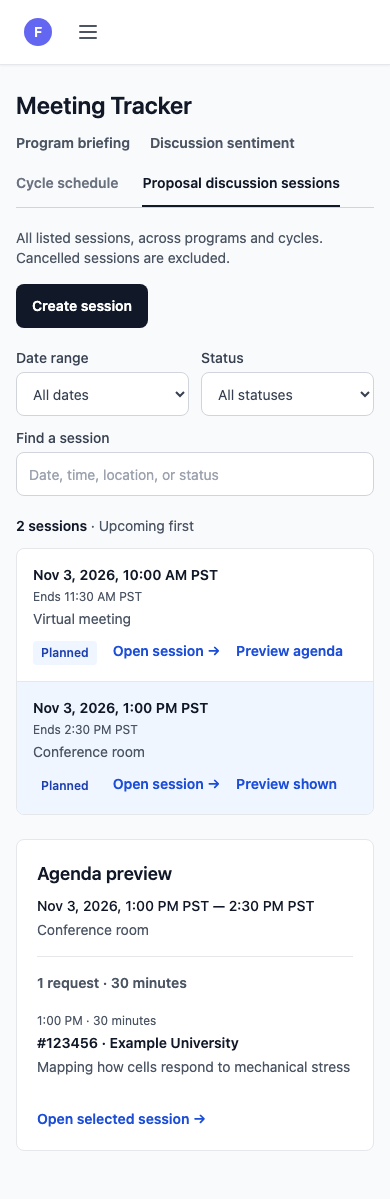
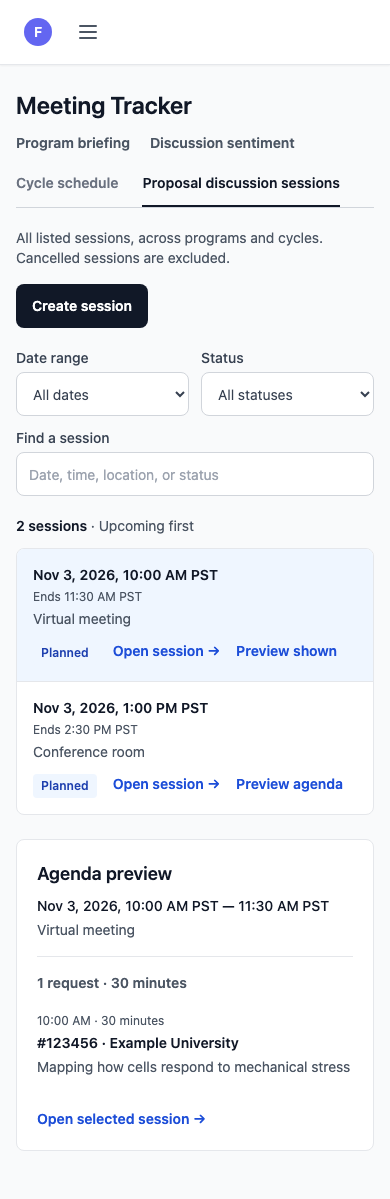
Guard empty session previews and record completed Opus UI review

diff --git a/tests/unit/meeting-tracker-materials-filters.test.js b/tests/unit/meeting-tracker-materials-filters.test.js
@@ -11,56 +11,58 @@ const response=(proposals)=>({ok:true,status:200,json:async()=>({proposals,progr
 let rows;
 beforeEach(()=>{rows=fixtures();mockRouter.query={programId:'p1',cycleCode:'D26'};mockRouter.replace.mockClear();global.fetch=jest.fn(async()=>response(rows));});
 afterEach(()=>jest.restoreAllMocks());
-const filters=()=>screen.getByRole('navigation',{name:'Materials status filters'});
-const filter=(name)=>within(filters()).getByRole('button',{name});
+const filters=()=>screen.getByRole('combobox',{name:'Materials status'});
+const filter=(name)=>within(filters()).getByRole('option',{name:name.startsWith('All (')?name.replace('All (','Materials: All statuses ('):name});
+const select=(name)=>fireEvent.change(filters(),{target:{value:filter(name).value}});
 const titles=()=>screen.getAllByRole('heading',{level:2}).map(x=>x.textContent);
 
 test('25 rows have exclusive stable counts; every normal filter retains source order without refetching',async()=>{
- render(<MeetingTrackerList/>);await screen.findByRole('button',{name:'All (25)'});
+ render(<MeetingTrackerList/>);await screen.findByRole('option',{name:'Materials: All statuses (25)'});
  const dashboardUrl=String(global.fetch.mock.calls.find(([url])=>String(url).includes('/api/meeting-tracker/dashboard'))[0]);
  expect(new URL(dashboardUrl,'https://example.org').searchParams.get('projection')).toBe('schedule');
  const calls=global.fetch.mock.calls.length;
  for(const [offset,label] of ['Not requested','Waiting','Late','Check files','Ready'].entries()){
-  fireEvent.click(filter(`${label} (5)`));
+  select(`${label} (5)`);
   expect(titles()).toEqual(Array.from({length:5},(_,i)=>`#${offset+1+i*5}`));
-  expect(filter(`${label} (5)`)).toHaveAttribute('aria-pressed','true');
-  expect(within(filters()).getAllByRole('button').map(b=>b.textContent)).toEqual(['All (25)','Not requested (5)','Waiting (5)','Saving files (0)','Needs attention (0)','Late (5)','Check files (5)','Ready (5)']);
+  expect(filters()).toHaveValue(filter(`${label} (5)`).value);
+  expect(within(filters()).getAllByRole('option').map(b=>b.textContent)).toEqual(['Materials: All statuses (25)','Not requested (5)','Waiting (5)','Saving files (0)','Needs attention (0)','Late (5)','Check files (5)','Ready (5)']);
  }
  expect(global.fetch).toHaveBeenCalledTimes(calls);
- fireEvent.click(filter('All (25)'));expect(titles()).toHaveLength(25);
+ select('All (25)');expect(titles()).toHaveLength(25);
 });
 
-test('diagnostic buckets count every row and zero-count filters show an explicit empty result',async()=>{
+test('diagnostic buckets count every row and zero-count filters are disabled and search has an explicit empty result',async()=>{
  rows=[{...fixtures()[0],siteVisit:null},{...fixtures()[1],materialsAvailability:'unavailable'},{...fixtures()[2],materials:summary('closed')}];
- render(<MeetingTrackerList/>);await screen.findByRole('button',{name:'All (3)'});
+ render(<MeetingTrackerList/>);await screen.findByRole('option',{name:'Materials: All statuses (3)'});
  for(const label of ['No visit','Status unavailable','Closed'])expect(filter(`${label} (1)`)).toBeInTheDocument();
- fireEvent.click(filter('Ready (0)'));expect(screen.getByText('No requests match this materials status')).toBeInTheDocument();
+ expect(filter('Ready (0)')).toBeDisabled();
+ fireEvent.change(screen.getByRole('searchbox',{name:'Find a request'}),{target:{value:'no matching request'}});expect(screen.getByText('No requests match these filters')).toBeInTheDocument();
  expect(screen.queryByRole('link',{name:'Edit visit'})).not.toBeInTheDocument();
  fireEvent.click(screen.getByRole('button',{name:'Show all requests'}));expect(titles()).toHaveLength(3);
 });
 
 test.each([{scope:'all'},{cycleCode:'J27'},{programId:'p2'}])('URL scope change resets filter and uses new scoped results: %p',async(change)=>{
- const view=render(<MeetingTrackerList/>);await screen.findByRole('button',{name:'All (25)'});
- fireEvent.click(filter('Late (5)'));
+ const view=render(<MeetingTrackerList/>);await screen.findByRole('option',{name:'Materials: All statuses (25)'});
+ select('Late (5)');
  rows=[{...fixtures()[4],requestNumber:'900',title:'New scope'}];
  mockRouter.query={...mockRouter.query,...change};view.rerender(<MeetingTrackerList/>);
- await screen.findByRole('button',{name:'All (1)'});
- expect(filter('All (1)')).toHaveAttribute('aria-pressed','true');expect(titles()).toEqual(['#900']);
+ await screen.findByRole('option',{name:'Materials: All statuses (1)'});
+ expect(filters()).toHaveValue('all');expect(titles()).toEqual(['#900']);
 });
 
 test('scope-control click immediately hides old actions even before router navigation completes',async()=>{
- render(<MeetingTrackerList/>);await screen.findByRole('button',{name:'All (25)'});
+ render(<MeetingTrackerList/>);await screen.findByRole('option',{name:'Materials: All statuses (25)'});
  fireEvent.click(screen.getByRole('button',{name:'All program directors'}));
  expect(mockRouter.replace).toHaveBeenCalled();
- expect(screen.queryByRole('navigation',{name:'Materials status filters'})).not.toBeInTheDocument();
+ expect(screen.queryByRole('combobox',{name:'Materials status'})).not.toBeInTheDocument();
  expect(screen.queryByRole('heading',{name:'#1',exact:true})).not.toBeInTheDocument();
 });
 
 test('new-scope load failure never displays previous-scope requests or counts',async()=>{
- const view=render(<MeetingTrackerList/>);await screen.findByRole('button',{name:'All (25)'});
+ const view=render(<MeetingTrackerList/>);await screen.findByRole('option',{name:'Materials: All statuses (25)'});
  global.fetch=jest.fn(async()=>({ok:false,status:503,json:async()=>({error:'Scoped load failed'})}));
  mockRouter.query={programId:'p2',cycleCode:'D26'};view.rerender(<MeetingTrackerList/>);
- await screen.findByRole('alert');expect(screen.queryByRole('navigation',{name:'Materials status filters'})).not.toBeInTheDocument();
+ await screen.findByRole('alert');expect(screen.queryByRole('combobox',{name:'Materials status'})).not.toBeInTheDocument();
  expect(screen.queryByRole('heading',{name:'#1',exact:true})).not.toBeInTheDocument();
 });
 
@@ -69,17 +71,17 @@ test('a late response from the old scope cannot overwrite the new scope',async()
  global.fetch=jest.fn(url=>String(url).includes('programId=p1')?old:Promise.resolve(response([{...fixtures()[0],requestNumber:'900'}])));
  const view=render(<MeetingTrackerList/>);await waitFor(()=>expect(global.fetch).toHaveBeenCalled());
  mockRouter.query={programId:'p2',cycleCode:'D26'};view.rerender(<MeetingTrackerList/>);
- await screen.findByRole('button',{name:'All (1)'});
+ await screen.findByRole('option',{name:'Materials: All statuses (1)'});
  await act(async()=>{resolveOld(response(fixtures()));});
  expect(titles()).toEqual(['#900']);expect(filter('All (1)')).toBeInTheDocument();
 });
 
 test('missing availability renders unknown even with a valid summary or known-looking null', async()=>{
  rows=[{...fixtures()[0],materialsAvailability:undefined},{...fixtures()[1],materialsAvailability:undefined}];
- render(<MeetingTrackerList/>);await screen.findByRole('button',{name:'All (2)'});
+ render(<MeetingTrackerList/>);await screen.findByRole('option',{name:'Materials: All statuses (2)'});
  expect(filter('Status unavailable (2)')).toBeInTheDocument();
  expect(filter('Not requested (0)')).toBeInTheDocument();
- expect(screen.getAllByText('Reload this page to refresh materials.')).toHaveLength(2);
+ expect(screen.getAllByText('Status unavailable',{exact:true})).toHaveLength(2);
 });
 
 test('cycle discovery keeps loading until navigation completes, without a false empty state',async()=>{
@@ -96,7 +98,7 @@ test('cycle discovery keeps loading until navigation completes, without a false 
 });
 
 test.each(['reject','cancel'])('scope navigation %s offers recovery instead of remaining stuck loading',async(kind)=>{
- render(<MeetingTrackerList/>);await screen.findByRole('button',{name:'All (25)'});
+ render(<MeetingTrackerList/>);await screen.findByRole('option',{name:'Materials: All statuses (25)'});
  if(kind==='reject')mockRouter.replace.mockRejectedValueOnce(new Error('navigation failed'));
  else mockRouter.replace.mockResolvedValueOnce(false);
  fireEvent.click(screen.getByRole('button',{name:'All program directors'}));
@@ -112,8 +114,8 @@ test('processing and attention filters include active work after collection clos
   { ...fixtures()[1], materials: summary('closed', { attentionCount:1 }) },
   { ...fixtures()[2], materials: summary('closed') },
  ];
- render(<MeetingTrackerList/>); await screen.findByRole('button', {name:'All (3)'});
- fireEvent.click(filter('Saving files (1)')); expect(titles()).toEqual(['#1']);
- fireEvent.click(filter('Needs attention (1)')); expect(titles()).toEqual(['#2']);
- fireEvent.click(filter('Closed (1)')); expect(titles()).toEqual(['#3']);
+ render(<MeetingTrackerList/>); await screen.findByRole('option', {name:'Materials: All statuses (3)'});
+ select('Saving files (1)'); expect(titles()).toEqual(['#1']);
+ select('Needs attention (1)'); expect(titles()).toEqual(['#2']);
+ select('Closed (1)'); expect(titles()).toEqual(['#3']);
 });

diff --git a/tests/unit/meeting-tracker-list-t5-matrix.test.js b/tests/unit/meeting-tracker-list-t5-matrix.test.js
@@ -42,7 +42,8 @@ test('dashboard non-2xx {error} surfaces its own fallback text verbatim', async 
   expect(await screen.findByRole('alert')).toHaveTextContent('boom');
 });
 
-test('sessions non-2xx falls to the fixed fallback text, never silent', async () => {
+test('sessions non-2xx is visible in the separate sessions view', async () => {
+  routerQuery = { ...routerQuery, view: 'sessions' };
   global.fetch = jest.fn((url) => (
     String(url).includes('/sessions')
       ? Promise.resolve({ ok: false, status: 500, json: async () => ({}) })
@@ -52,7 +53,7 @@ test('sessions non-2xx falls to the fixed fallback text, never silent', async ()
       })
   ));
   render(<MeetingTrackerList />);
-  expect(await screen.findByRole('alert')).toHaveTextContent('The meeting sessions could not be loaded. Please try again.');
+  expect(await screen.findByRole('alert')).toHaveTextContent('Sessions could not be loaded.');
 });
 
 test('network rejection is never silent', async () => {
@@ -69,4 +70,14 @@ test('dashboard axis (e): non-2xx unparseable body falls to the fixed fallback t
   ));
   render(<MeetingTrackerList />);
   expect(await screen.findByRole('alert')).toHaveTextContent('The meeting schedule could not be loaded. Please try again.');
+});
+
+
+test('a failed global session read does not hide the cycle schedule', async () => {
+  global.fetch = jest.fn((url) => String(url).includes('/sessions')
+    ? Promise.reject(new Error('session endpoint offline'))
+    : Promise.resolve({ ok: true, json: async () => ({ proposals: [{ requestId: 'request-1', requestNumber: '123456', title: 'Visible request' }], programs: [], cycles: [{code:'D26'}] }) }));
+  render(<MeetingTrackerList />);
+  expect(await screen.findByRole('heading', {name:'#123456'})).toBeInTheDocument();
+  expect(screen.queryByRole('alert')).not.toBeInTheDocument();
 });

diff --git a/tests/unit/meeting-sessions-view.test.js b/tests/unit/meeting-sessions-view.test.js
@@ -39,3 +39,13 @@ test('malformed success is an agenda error, and retry recovers without a write',
   expect(await screen.findByText('Recovered agenda')).toBeInTheDocument();
   expect(global.fetch.mock.calls.every(([, options]) => !options.method || options.method === 'GET')).toBe(true);
 });
+
+
+test('empty, loading and failed lists never treat an absent selection as loaded detail', () => {
+  const view = render(<Sessions sessions={[]} loading />);
+  expect(screen.getByRole('status')).toHaveTextContent('Loading sessions');
+  view.rerender(<Sessions sessions={[]} />);
+  expect(screen.getByText(/No sessions have been scheduled/)).toBeInTheDocument();
+  view.rerender(<Sessions sessions={[]} error="offline" onRetry={() => {}} />);
+  expect(screen.getByRole('alert')).toHaveTextContent('Sessions could not be loaded');
+});

diff --git a/shared/components/meeting-tracker/MeetingSessionsView.js b/shared/components/meeting-tracker/MeetingSessionsView.js
@@ -56,7 +56,7 @@ export default function MeetingSessionsView({ sessions, loading, error, onRetry,
     if (programId) query.set('programId', programId);
     return `/meeting-tracker/sessions/${sessionId}${query.size ? `?${query}` : ''}`;
   };
-  const ready = detail?.forId === id;
+  const ready = Boolean(id && detail?.forId === id);
   const slots = ready ? detail.slots : [];
   const previewSession = ready ? detail.session : selected;
   const preview = (sessionId) => {

diff --git a/docs/audits/MEETING_UI_COMPLETION_2026-10-24.md b/docs/audits/MEETING_UI_COMPLETION_2026-10-24.md
@@ -1,6 +1,6 @@
 # Meeting Tracker UI completion — 2026-10-24
 
-Status: implemented and verified locally against the saved mockups; final Opus confirmation and release pending. This receipt does not claim deployment.
+Status: UI implementation, actual-page visual verification and final Opus review passed; candidate release checks/promotion pending. This receipt does not claim deployment.
 
 The earlier functional release did not complete the approved landing-page layout. The saved October 20 mockups in `docs/plans/review/meeting-tracker-2026-10-20/` remain the design authority. This work completes their cycle/session navigation and focused task workspace using existing application data and controls.
 
@@ -42,9 +42,9 @@ The final round captured **16 screens at 1440px and 390px**, including all four 
 
 [VERIFIED via direct image inspection] The candidate follows the approved composition rather than reproducing synthetic queue counts or changing existing operational controls. Landing rows are approximately 89px with real disclosure/count content; the mockup is approximately 87px. This deliberately remains above DESIGN.md's approximate 64px density preference to keep the actual information readable. The shared production shell is retained. Session search truthfully supports date/time/location/status; an exploratory agenda-text search is not advertised.
 
-[VERIFIED via browser interactions and 8 Jest suites / 283 tests] Request search, status filtering, URL-addressable views, preview selection/focus, stale response rejection, malformed-success recovery, same-day identity, mounted task state and invitation draft preservation pass. Existing visit/form, preparation and recording/video tests remain green. Lint has zero errors and five pre-existing hook warnings in the retained editors; types and production-mode webpack build pass. The required Impeccable detector returned `[]`. Source scaffolding gate/self-test, doc-currency gate/self-test, docs catalog and agent symlink invariants pass.
+[VERIFIED via browser interactions and 10 Jest suites / 302 tests] Request search, status filtering, URL-addressable views, preview selection/focus, stale response rejection, malformed-success recovery, same-day identity, mounted task state and invitation draft preservation pass. Existing visit/form, preparation and recording/video tests remain green. Lint has zero errors and five pre-existing hook warnings in the retained editors; types and production-mode webpack build pass. The required Impeccable detector returned `[]`. Source scaffolding gate/self-test, doc-currency gate/self-test, docs catalog and agent symlink invariants pass.
 
-Proof limits: this is a UI-only Mode A rehearsal, not a new hosted media/mail or production business-write rehearsal. The canonical deployed bundler remains Turbopack; the local build uses the existing webpack fallback because dependencies are symlinked across checkout roots. A local fixture-auth full reload reached the sign-in UI despite its mocked client session; the final UI pass verifies URL updates and selection without claiming a fresh sign-in/reload acceptance result.
+Proof limits: this is a UI-only Mode A rehearsal, not a new hosted media/mail or production business-write rehearsal. The canonical deployed bundler remains Turbopack; the local build uses the existing webpack fallback because dependencies are symlinked across checkout roots. The broader T5/error-state suites exposed an empty-selection startup crash after the first visual review. `Boolean(id && detail?.forId === id)` now prevents absent IDs from making a null detail appear ready. The final real-page pass includes direct Sessions reload with the actual authentication guard and URL query intact; it passes. This is local fixture authentication, not a new Microsoft SSO acceptance test.
 
 ## Claude Opus review and adjudication
 
@@ -61,7 +61,11 @@ Proof limits: this is a UI-only Mode A rehearsal, not a new hosted media/mail or
 
 The suggestion that materials filters were not reset on program/cycle change was refuted by the existing `setMaterialsFilter('all')` calls. The session date identity and URL-addressable view suggestions were implemented. Synthetic task queue counts were not invented.
 
-Final Opus confirmation is pending; do not call the task complete until its findings are adjudicated.
+[VERIFIED via final ordinary OAuth Opus review] Final verdict: **pass — no blocking defects in this bounded UI completion**. Opus compared the final real Next-page screenshots to the approved references and checked the source fixes, response fences, direct view links and preserved scope. Optional styling/legacy-component suggestions are not new scope.
+
+The subsequent broader contract test caught the startup crash described above, missed by both visual reviews. A targeted Opus follow-up explicitly verified the guard and empty/loading/error regressions: **fix correct; no remaining concrete defect in this fix**. The prior visual verdict remains valid because the guard changes only empty-detail readiness. This receipt records that review miss rather than presenting reviews as exhaustive proof.
+
+The final browser rerun passed all 16 screens, including direct Sessions reload, after the crash fix. The existing materials filter suites were updated for the deliberately approved single select and disabled zero-count options; order/count/stale-scope/recovery assertions remain. The T5 session-error test now targets the separate view, and a new test proves a failed global session read leaves cycle requests usable.
 
 ## Contract-reconcile and bounded sweep
 

diff --git a/docs/plans/review/MEETING_TRACKER_LANDING_STRUCTURE_2026-10-20.md b/docs/plans/review/MEETING_TRACKER_LANDING_STRUCTURE_2026-10-20.md
@@ -3,7 +3,7 @@ title: Meeting Tracker Landing Structure and Mockups
 domain: product
 kind: plan
 status: in-progress
-summary: Approved Meeting Tracker design references; functional workflow released, with the omitted compact landing and focused task workspace now implemented on the UI completion branch and undergoing final review.
+summary: Approved Meeting Tracker design references; functional workflow released, with the omitted compact landing and focused task workspace now implemented on the UI completion branch with actual-page visual verification and Opus review passed; candidate release is tracked separately.
 canonical: false
 owner: product-engineering
 related:
@@ -16,7 +16,7 @@ related:
 
 [VERIFIED via source and release receipts] The functional meeting workflow is released for ordinary eligible requests. The earlier release did **not** implement the approved compact cycle landing or desktop task rail. Its horizontal task tabs were only a partial workspace implementation.
 
-[VERIFIED via branch source and actual built Next pages] `codex/meeting-ui-completion` implements the compact cycle schedule, request search, single materials select, separate global Sessions view with selected agenda preview, and focused Meeting coordination task workspace. Desktop uses a left task rail; narrow screens keep task selectors above the active content and both request actions visible. The selected landing view is URL-addressable. Final review and release evidence is owned by [the UI completion receipt](../../audits/MEETING_UI_COMPLETION_2026-10-24.md); this design record does not independently claim deployment.
+[VERIFIED via branch source and actual built Next pages] `codex/meeting-ui-completion` implements the compact cycle schedule, request search, single materials select, separate global Sessions view with selected agenda preview, and focused Meeting coordination task workspace. Desktop uses a left task rail; narrow screens keep task selectors above the active content and both request actions visible. The selected landing view is URL-addressable. Final review passed; release evidence is owned by [the UI completion receipt](../../audits/MEETING_UI_COMPLETION_2026-10-24.md); this design record does not independently claim deployment.
 
 The approved composition remains the saved [cycle schedule](meeting-tracker-2026-10-20/index.html), [Sessions](meeting-tracker-2026-10-20/sessions.html), [preparation workspace](meeting-tracker-2026-10-20/preparation-workspace.html) and [transcript preparation](meeting-tracker-2026-10-20/transcript-preparation.html). Mockup dates, queue counts, people and artifacts are synthetic. Runtime uses existing request/session scopes and capability checks, with no invented queue counts. Session search names its supported date/time/location/status fields; agenda text search was an exploratory control, not an existing list API contract. No membership or persistence change is implied.
 
